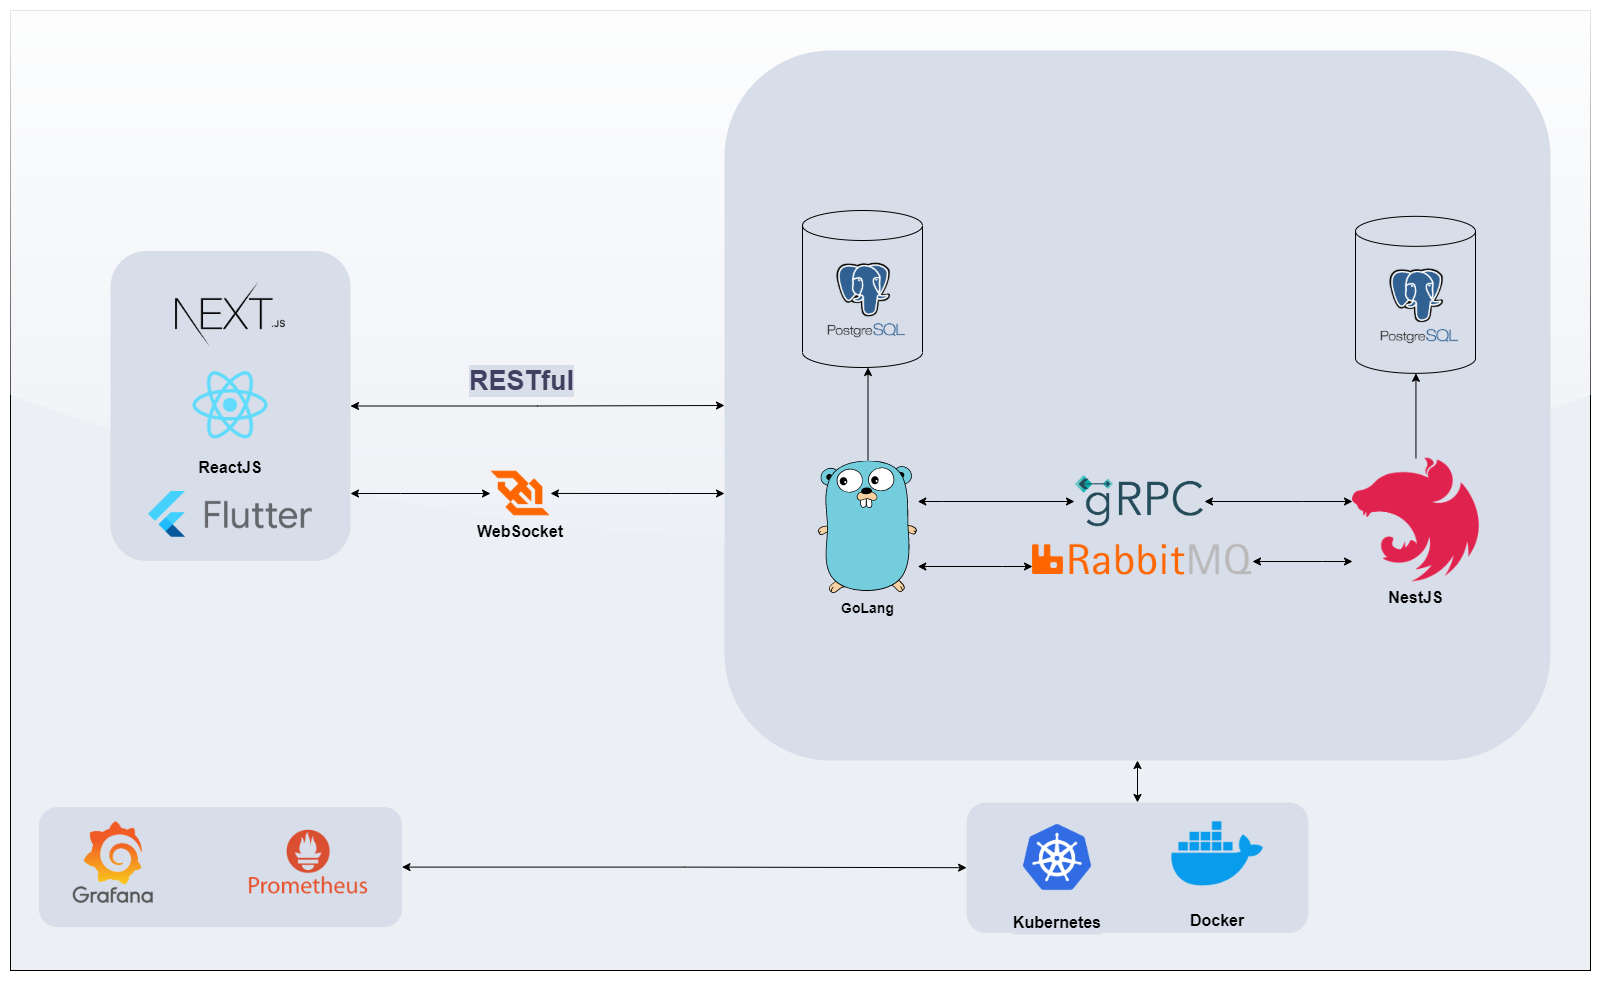
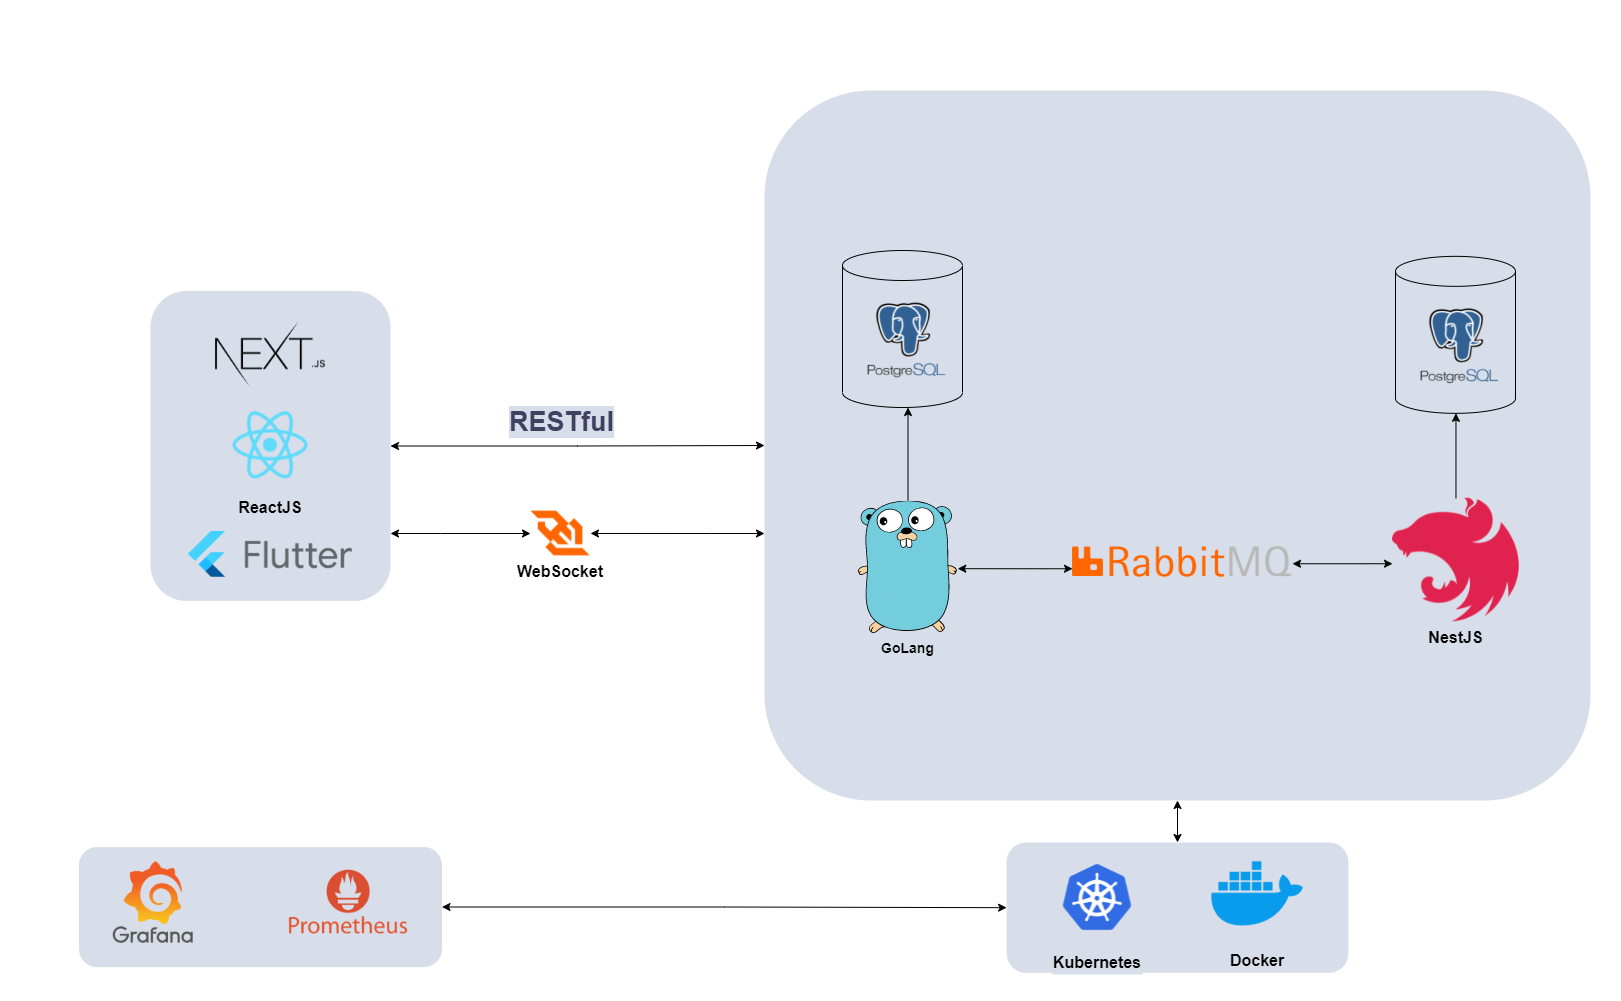
docs: update on docs

diff --git a/documentacao/documento_de_arquitetura.md b/documentacao/documento_de_arquitetura.md
@@ -127,12 +127,12 @@ Os objetivos específicos são:
 | RF005  | Implantação da aplicação do usuário por meio de Webhook                | Essencial      |
 | RF006  | Lista de atividades com Rollback                                       | Essencial      |
 | RF007  | Diferenciar níveis de acesso de administrador e usuário                | Essencial      |
-| RF009  | Visualização de informações (Mobile)                                   | Essencial      |
-| RF010  | Monitoramento (Prometheus + Grafana)                                   | Desejável      |
-| RF011  | Construção da imagem de container com o Buildpacks Pack                | Desejável      |
-| RF012  | Integração com GitLab                                                  | Opcional       |
-| RF013  | Disponibilizar aplicativos pré configurado por meio de template        | Opcional       |
-| RF014  | Cadastro por meio de carga arquivo ou por meio do acesso a organização | Opcional       |
+| RF008  | Visualização de informações (Mobile)                                   | Essencial      |
+| RF009  | Monitoramento (Prometheus + Grafana)                                   | Desejável      |
+| RF010  | Construção da imagem de container com o Buildpacks Pack                | Desejável      |
+| RF011  | Integração com GitLab                                                  | Opcional       |
+| RF012  | Disponibilizar aplicativos pré configurado por meio de template        | Opcional       |
+| RF013  | Cadastro por meio de carga arquivo ou por meio do acesso a organização | Opcional       |
 
 ## 2.2. Requisitos Não-Funcionais
 
@@ -152,18 +152,17 @@ Os objetivos específicos são:
 4. O software back-end de comunicação com serviços de containers deve ser desenvolvido em GoLang;
 5. A comunicação sem necessidade de ser em tempo real entre front-end e back-end deve seguir o padrão RESTful;
 6. A comunicação com necessidade de ser em tempo real entre front-end e back-end deve utilizar o WebSocket;
-7. A comunicação síncrona entre os back-ends devem utilizar o framework gRPC;
-8. A comunicação assíncrona entre os back-ends devem utilizar o sistema de mensageria RabbitMQ;
-9. Para a persistência de dados deve ser utilizado o PostgreSQL;
-10. Para o cache de consultas à API deve ser utilizado o Redis;
-11. Para a autorização de acesso aos repositórios de aplicativos externos deve ser utilizado o OAuth;
-12. Para a escuta de envios de commits nos repositórios deve ser utilizado Webhooks;
-13. Para a orquestração de containers deve ser utilizado um implementação do Kubernetes;
-14. Para o controle de ingresso dos serviços do orquestrador deve ser utilizado o Traefik;
-15. Para o fornecimento de certificados de criptografia TLS deve ser utilizado o Let's Encrypt;
-16. Para a coleta de métricas do orquestrador e do controlador de ingresso deve ser utilizado o Prometheus;
-17. Para a visualização de métricas coletadas deve ser utilizado Prometheus Datasources como o Grafana;
-18. Para a resolução de nomes dos endereços IPs para o exterior deve ser utilizado o Cloudflare.
+7. A comunicação assíncrona entre os back-ends devem utilizar o sistema de mensageria RabbitMQ;
+8. Para a persistência de dados deve ser utilizado o PostgreSQL;
+9. Para o cache de consultas à API deve ser utilizado o Redis;
+10. Para a autorização de acesso aos repositórios de aplicativos externos deve ser utilizado o OAuth;
+11. Para a escuta de envios de commits nos repositórios deve ser utilizado Webhooks;
+12. Para a orquestração de containers deve ser utilizado um implementação do Kubernetes;
+13. Para o controle de ingresso dos serviços do orquestrador deve ser utilizado o Traefik;
+14. Para o fornecimento de certificados de criptografia TLS deve ser utilizado o Let's Encrypt;
+15. Para a coleta de métricas do orquestrador e do controlador de ingresso deve ser utilizado o Prometheus;
+16. Para a visualização de métricas coletadas deve ser utilizado Prometheus Datasources como o Grafana;
+17. Para a resolução de nomes dos endereços IPs para o exterior deve ser utilizado o Cloudflare.
 
 ## 2.4. Mecanismos Arquiteturais
 
@@ -175,7 +174,6 @@ Os objetivos específicos são:
 | Negócio        | Back-end web             | GoLang            |
 | Comunicação    | Front-Back non-real-time | Restful           |
 | Comunicação    | Front-Back real-time     | WebSocket         |
-| Comunicação    | Back-Back point-to-point | gRPC              |
 | Comunicação    | Back-Back broker-based   | RabbitMQ          |
 | Persistência   | Relational SGBD          | PostgreSQL        |
 | Cache          | In-memory                | Redis             |

diff --git a/artefatos/gerencia/relatorio_de_encerramento_do_projeto.md b/artefatos/gerencia/relatorio_de_encerramento_do_projeto.md
@@ -52,7 +52,7 @@ Sim, todas os requisitos que foram levantados no início do projeto foram entreg
 # 4. Liçoes aprendidas
 
 Durante o processo de desenvolvimento do Climb, muitas lições foram apreendidas pelos integrantes do grupo, como a utilização de diversas tecnologias e protocolos
-de comunicação para compor um software complexo, sendo algumas delas: Next.js, Flutter, Nest.js, Kubernetes, HTTP, Websocket, RabbitMQ, gRPC, Grafana, 
+de comunicação para compor um software complexo, sendo algumas delas: Next.js, Flutter, Nest.js, Kubernetes, HTTP, Websocket, RabbitMQ, Grafana, 
 Prometheus. Além disso, foram apreendidas muitas técnicas para gerenciar o projeto, como a utilização de algumas ferramentas usando a metodologia SCRUM.
 
 # 5. Questões em Aberto

diff --git a/artefatos/gerencia/declaracao_de_escopo.md b/artefatos/gerencia/declaracao_de_escopo.md
@@ -81,7 +81,6 @@ Construir um sistema simples e prático para implantação de aplicações escal
 - O software back-end de comunicação com serviços de containers deve ser desenvolvido em GoLang;
 - A comunicação sem necessidade de ser em tempo real entre front-end e back-end deve seguir o padrão RESTful;
 - A comunicação com necessidade de ser em tempo real entre front-end e back-end deve utilizar o WebSocket;
-- A comunicação síncrona entre os back-ends devem utilizar o framework gRPC;
 - A comunicação assíncrona entre os back-ends devem utilizar o sistema de mensageria RabbitMQ;
 - Para a persistência de dados deve ser utilizado o PostgreSQL;
 - Para o cache de consultas à API deve ser utilizado o Redis;
